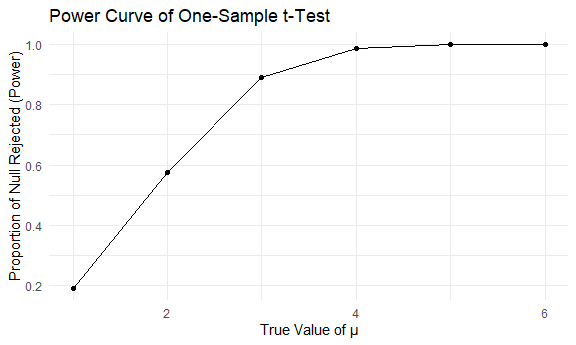
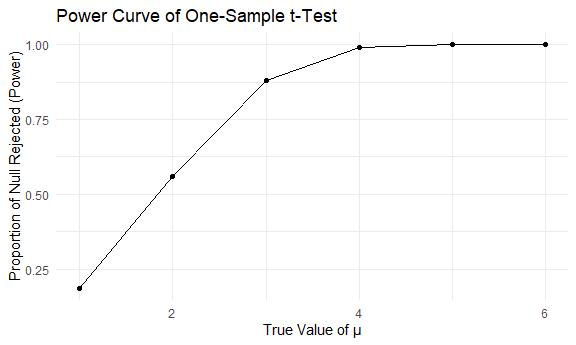
problem 3

diff --git a/p8105_hw5_csl2209.md b/p8105_hw5_csl2209.md
@@ -80,9 +80,9 @@ one_samp_t_sim(5)
 ```
 
     ## # A tibble: 1 × 8
-    ##   estimate statistic   p.value parameter conf.low conf.high method   alternative
-    ##      <dbl>     <dbl>     <dbl>     <dbl>    <dbl>     <dbl> <chr>    <chr>      
-    ## 1     5.14      4.91 0.0000323        29     3.00      7.28 One Sam… two.sided
+    ##   estimate statistic     p.value parameter conf.low conf.high method alternative
+    ##      <dbl>     <dbl>       <dbl>     <dbl>    <dbl>     <dbl> <chr>  <chr>      
+    ## 1     4.52      6.98 0.000000114        29     3.20      5.84 One S… two.sided
 
 Run function 5000 times for each group size between 1 and 6
 
@@ -198,7 +198,24 @@ city_homicides =
     unsolved_homicides = 
       sum(disposition %in% c("Closed without arrest", "Open/No arrest"))
   ) 
+
+city_homicides
 ```
+
+    ## # A tibble: 51 × 3
+    ##    city_state      total_homicides unsolved_homicides
+    ##    <chr>                     <int>              <int>
+    ##  1 Albuquerque, NM             378                146
+    ##  2 Atlanta, GA                 973                373
+    ##  3 Baltimore, MD              2827               1825
+    ##  4 Baton Rouge, LA             424                196
+    ##  5 Birmingham, AL              800                347
+    ##  6 Boston, MA                  614                310
+    ##  7 Buffalo, NY                 521                319
+    ##  8 Charlotte, NC               687                206
+    ##  9 Chicago, IL                5535               4073
+    ## 10 Cincinnati, OH              694                309
+    ## # ℹ 41 more rows
 
 Use the prop.test function to estimate proportion of homicides for
 Baltimore
@@ -220,6 +237,49 @@ prop.test(
     ##      <dbl>     <dbl>    <dbl>     <int>    <dbl>     <dbl> <chr>     <chr>      
     ## 1    0.646      239. 6.46e-54         1    0.628     0.663 1-sample… two.sided
 
+``` r
+baltimore
+```
+
+    ## # A tibble: 1 × 3
+    ##   city_state    total_homicides unsolved_homicides
+    ##   <chr>                   <int>              <int>
+    ## 1 Baltimore, MD            2827               1825
+
 Run prop.test for each city
 
-Create a plot
+``` r
+city_prop_tests =
+  city_homicides |>
+  mutate(
+    prop_test = 
+      map2(unsolved_homicides, total_homicides, \(x, n) prop.test(x, n)
+    ),
+    tidied = map(prop_test, broom::tidy)
+  ) |>
+  select(city_state, tidied) |>
+  unnest(tidied)
+```
+
+    ## Warning: There was 1 warning in `mutate()`.
+    ## ℹ In argument: `prop_test = map2(...)`.
+    ## Caused by warning in `prop.test()`:
+    ## ! Chi-squared approximation may be incorrect
+
+Plot of estimates & CIs for each city
+
+``` r
+city_prop_tests |>
+  mutate(city_state = fct_reorder(city_state, estimate)) |>
+  ggplot(aes(x = city_state, y = estimate)) +
+  geom_point() +
+  geom_errorbar(aes(ymin = conf.low, ymax = conf.high), width = 0.2) +
+  coord_flip() +
+  labs(
+    title = "Proportion of Unsolved Homicides by City",
+    x = "City",
+    y = "Estimated Proportion (95% CI)"
+  )
+```
+
+<img src="p8105_hw5_csl2209_files/figure-gfm/unnamed-chunk-16-1.png" width="90%" />
